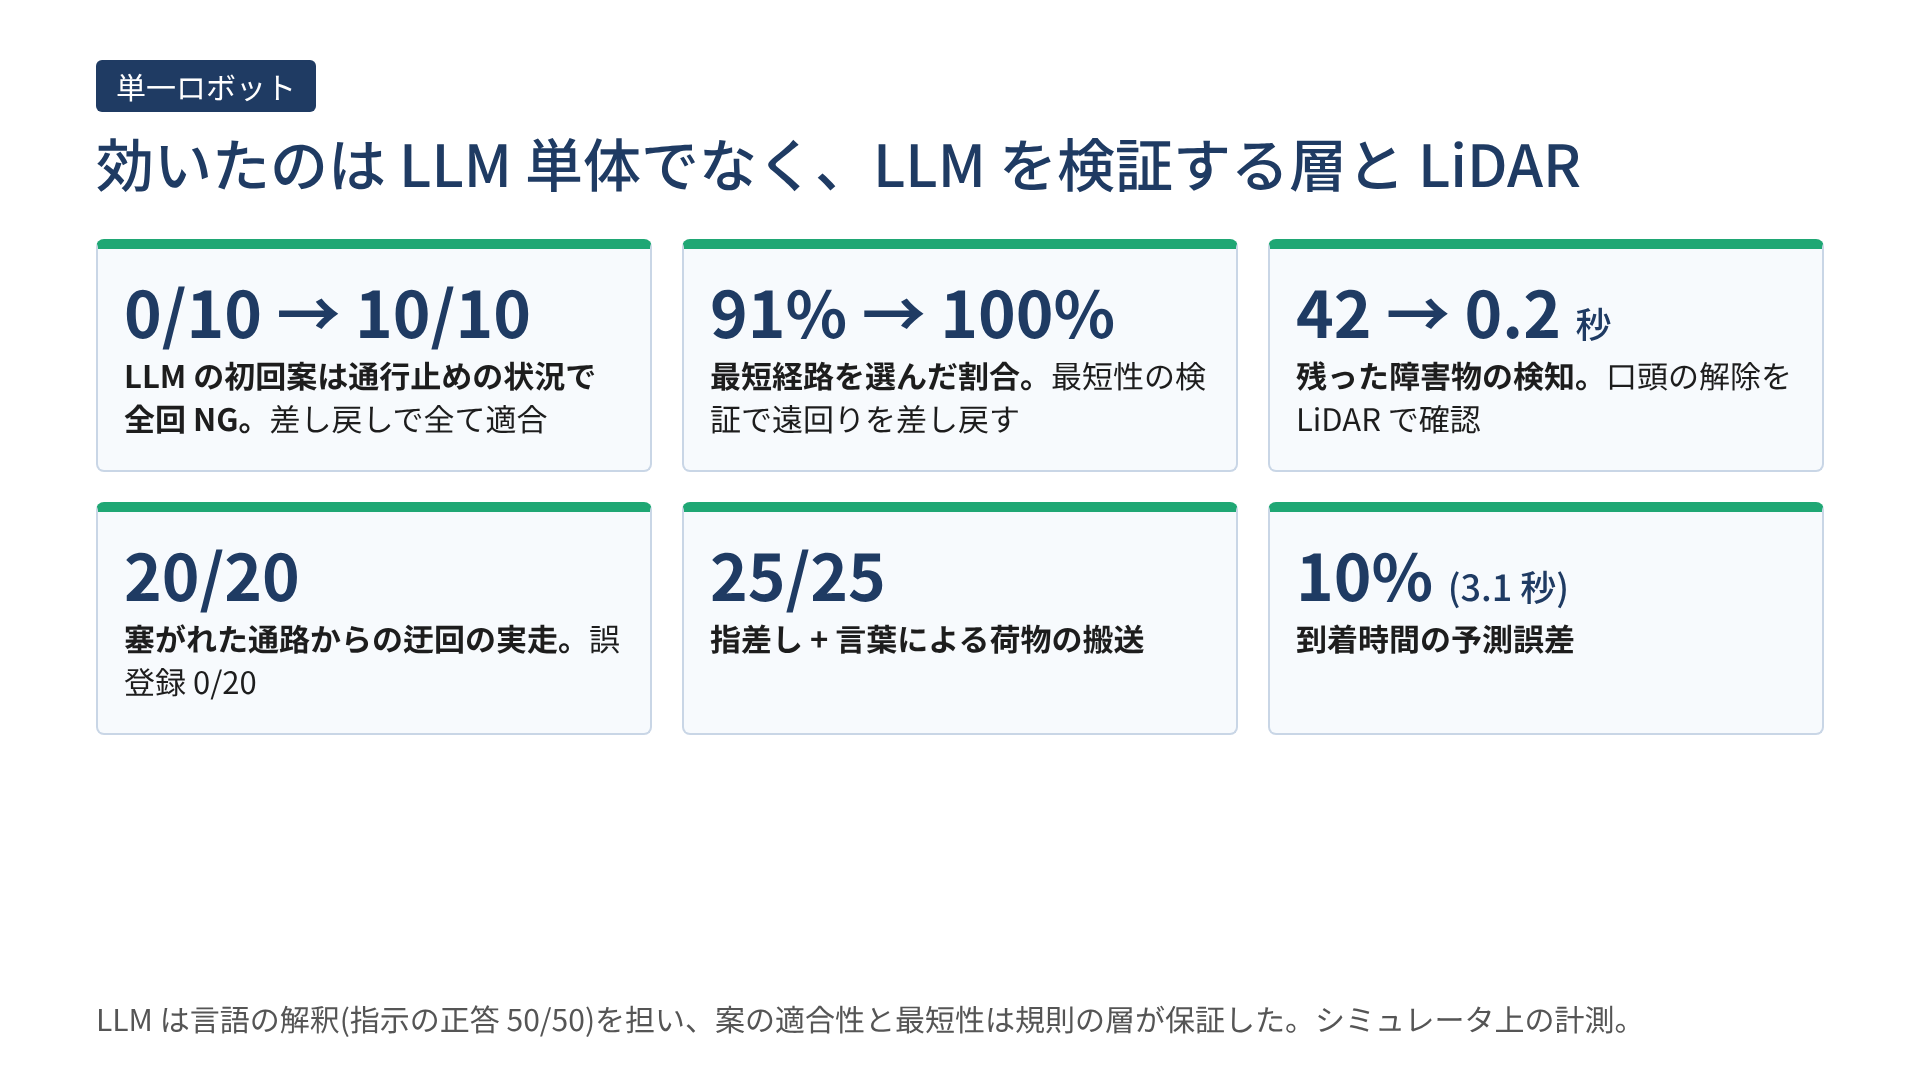
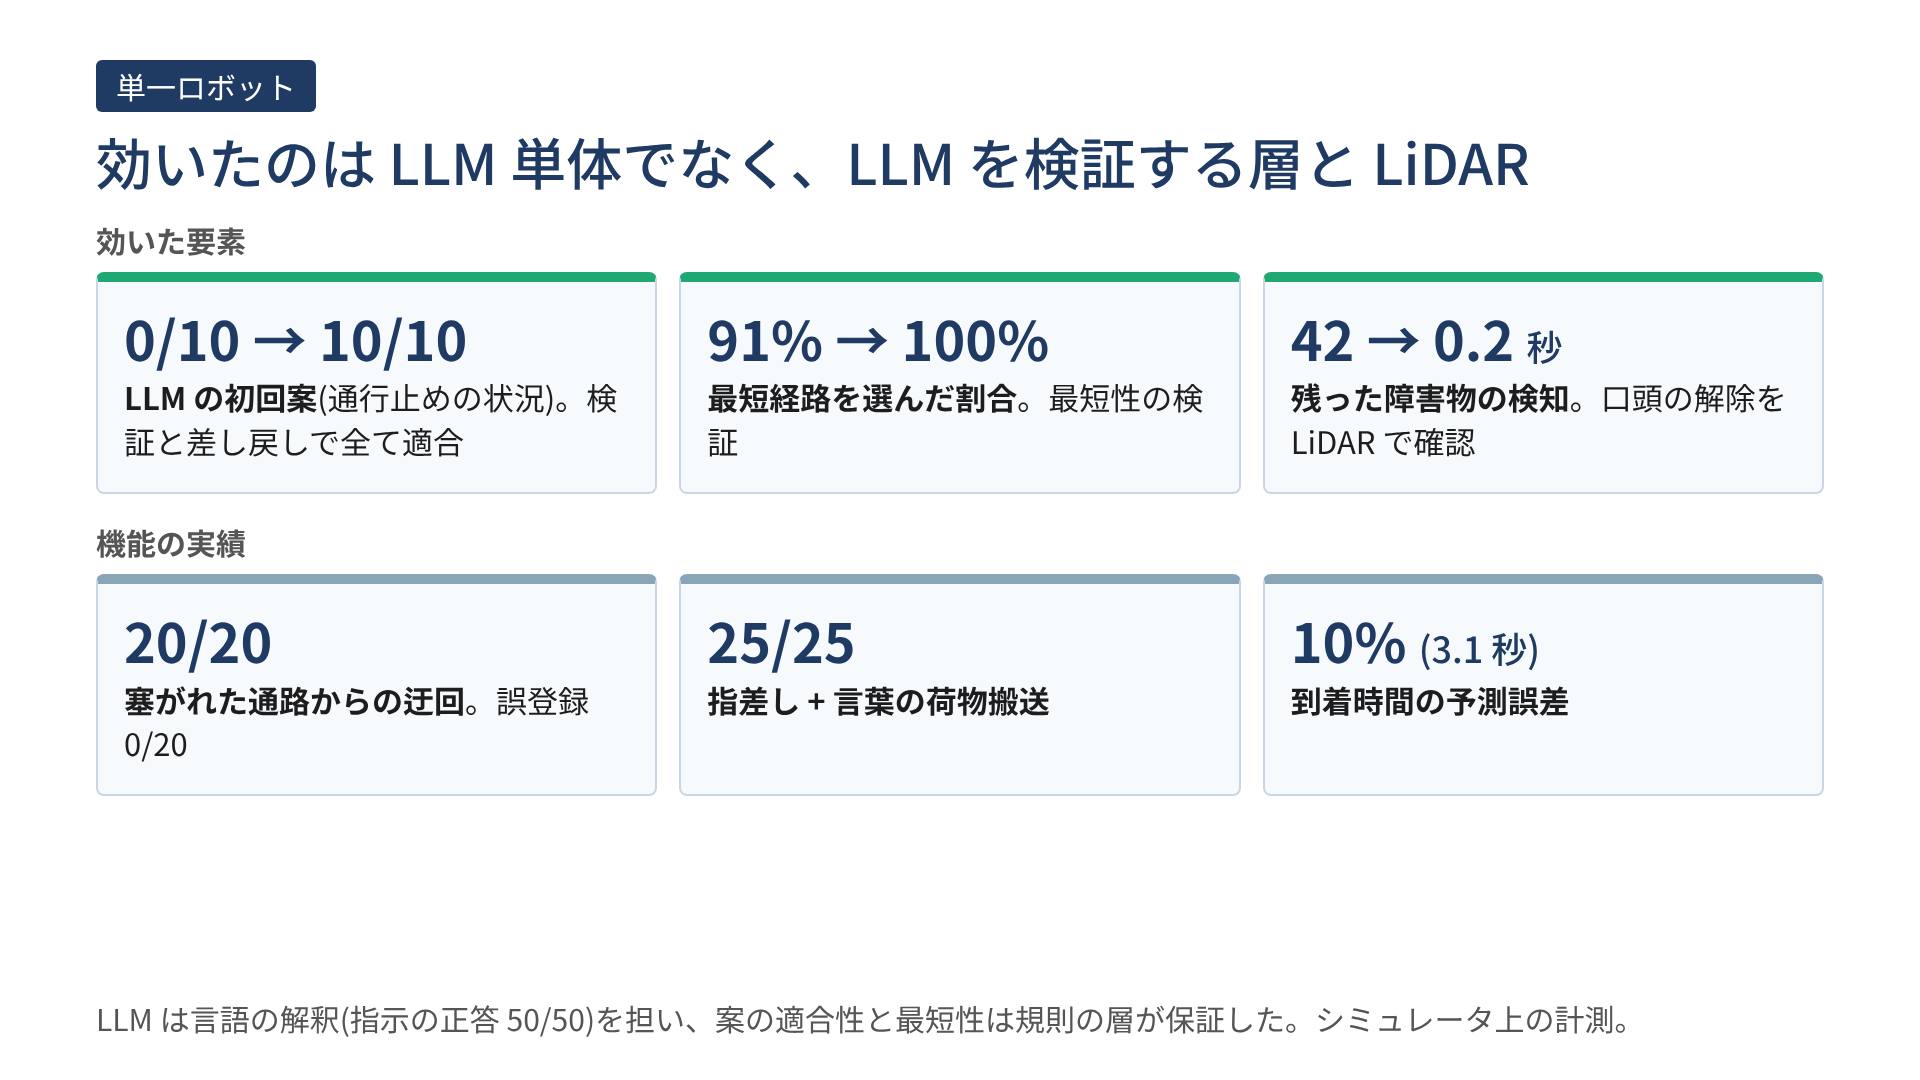
動画: 説明資料(draft12)に合わせて構成と画像を見直し(問い・進め方・協調方式の図・まとめ)
Claude-Session: https://claude.ai/code/session_01XXRvrW4CqHyFHBMq6pLjo3

Changed region(s): [[0.0312, 0.2139, 0.9688, 0.7028], [0.0625, 0.1222, 0.8438, 0.1833]]

diff --git a/docs/動画収録手順.md b/docs/動画収録手順.md
@@ -32,14 +32,14 @@
 
 ## 2. 場面ごとの操作
 
-### 場面 2(0:08–0:20)通常搬送と到着予測
+### 場面 2(0:14–0:24)通常搬送と到着予測
 | 場所 | 操作 |
 |---|---|
 | 【Mac-指示】 | `python llm_commander.py` |
 | 【Mac-指示】 | `> 出荷口へ行って` |
 | 画面 | 「到着予測: 約 N 秒」→ 到着(status: done)→「到着時間: 予測 … / 実測 … (誤差 …)」。ここを 2 倍速にして、画像 05 を重ねる |
 
-### 場面 3(0:20–0:42)荷物搬送(指差し + 言葉)
+### 場面 3(0:24–0:44)荷物搬送(指差し + 言葉)
 | 場所 | 操作 |
 |---|---|
 | 【Mac-指差し】 | `cd ~/Desktop/pai_final/host && source .venv/bin/activate && python pointing_cam.py`(黒い画面に手の骨格だけが出る。小窓で映す) |
@@ -48,7 +48,7 @@
 | 手 | 中央の荷物の方向を、人差し指で 1 秒指す →「SELECTED: …」→「指示を続けます」と出て走り出す |
 | 画面 | 荷物の前で積載(箱が消える)→ 出荷口で荷降ろし(箱が出荷口の前に出る) |
 
-### 場面 4(0:42–1:12)迂回(荷物を積んだまま)
+### 場面 4(0:44–1:12)迂回(荷物を積んだまま)
 | 場所 | 操作 |
 |---|---|
 | 【Mac-指示】 | `python llm_commander.py --cargo`(リセット後) |
@@ -56,7 +56,7 @@
 | 【Mac-操作】 | 「loaded 南の荷物」が出たら、ロボットが x=3.0 に着く前に `./ros_exec.sh ros2 run ai_nav obstacle place south_aisle` |
 | 画面 | 停止 → blocked(南通路)→ LLM の案・検証・差し戻し → 中央通路経由 → 出荷口で unloaded。2 倍速、画像 02 を前に 3〜4 秒、画像 05 を重ねる |
 
-### 場面 5(1:12–1:28)口頭解除と LiDAR 確認
+### 場面 5(1:12–1:26)口頭解除と LiDAR 確認
 | 場所 | 操作 |
 |---|---|
 | 【Mac-操作】 | `./ros_exec.sh ros2 run ai_nav obstacle place south_aisle`(パレットを置く。コマンダーは先に起動しておく) |
@@ -65,7 +65,7 @@
 | 【Mac-指示】 | `> 南通路は片付いた。出荷口へ行って` |
 | 画面 | パレットが残っているので、走行前に blocked(約 0.2 秒)→ 中央通路経由で到着。続けて画像 03 |
 
-### 場面 6(1:28–1:34)非常停止(手元のみ映す)
+### 場面 6(1:26–1:32)非常停止(手元のみ映す)
 | 場所 | 操作 |
 |---|---|
 | 【Mac-指差し】 | `Ctrl+C`(カメラを使う指差しを止める) |
@@ -73,7 +73,7 @@
 | 【Mac-指示】 | `> 出荷口へ行って`(走り出したら、握りこぶしを見せる) |
 | 画面 | EMERGENCY STOP が出てロボットが止まる。映すのは手元とターミナルだけ |
 
-### 場面 7(1:48–2:13)2 台の正面すれ違い(複数台の検証)
+### 場面 7(1:47–2:10)2 台の正面すれ違い(複数台の検証)
 単一の場面とは別のコンテナ(multi 用)を使う。**単一用のコンテナは止めてから**行う。録画用の試行は `MULTI_SUFFIX=_video` で別ファイルに記録し、検証データ・集計には混ぜない。
 
 | 場所 | 操作 |
@@ -91,22 +91,23 @@
 
 | 時間 | 内容 | 素材 |
 |---|---|---|
-| 0:00–0:08 | 課題と狙い | 画像 01 |
-| 0:08–0:20 | 通常搬送と到着予測 | 場面 2(2 倍速、画像 05) |
-| 0:20–0:42 | 荷物搬送(指差し + 言葉) | 場面 3 |
-| 0:42–1:12 | 迂回 | 画像 02(3 秒)→ 場面 4(2 倍速、画像 05) |
-| 1:12–1:28 | 口頭解除と LiDAR 確認 | 場面 5 → 画像 03 |
-| 1:28–1:34 | 非常停止 | 場面 6 |
-| 1:34–1:42 | 単一ロボットの要点 | 画像 04 |
-| 1:42–1:48 | 複数台の検証の設定 | 画像 06 |
-| 1:48–2:13 | 2 台の正面すれ違い | 場面 7(C0 4 倍速 + 画像 05b → C3 2 倍速 + 画像 05) |
-| 2:13–2:21 | 複数台の結果 | 画像 07 |
-| 2:21–2:29 | 通信の中身と、届かない場合 | 画像 08 |
-| 2:29–2:38 | 単一で効いた規則が裏目に出た点 | 画像 09 |
-| 2:38–2:52 | まとめ | 画像 10 |
+| 0:00–0:08 | 題名と 2 つの問い(単一 / 複数台) | 画像 01 |
+| 0:08–0:14 | 進め方(仮説 → 検証 → 修正の例 4 件) | 画像 01b |
+| 0:14–0:24 | 通常搬送と到着予測 | 場面 2(2 倍速、画像 05) |
+| 0:24–0:44 | 荷物搬送(指差し + 言葉) | 場面 3 |
+| 0:44–1:12 | 迂回 | 画像 02(3 秒)→ 場面 4(2 倍速、画像 05) |
+| 1:12–1:26 | 口頭解除と LiDAR 確認 | 場面 5 → 画像 03 |
+| 1:26–1:32 | 非常停止 | 場面 6 |
+| 1:32–1:40 | 問い 1 の答え:効いた要素と機能の実績 | 画像 04 |
+| 1:40–1:47 | 複数台の構成と協調の方式(C1・C3・C4) | 画像 06 |
+| 1:47–2:10 | 2 台の正面すれ違い | 場面 7(C0 4 倍速 + 画像 05b → C3 2 倍速 + 画像 05) |
+| 2:10–2:18 | 複数台の結果 | 画像 07 |
+| 2:18–2:26 | 通信の中身と、届かない場合・2 層 | 画像 08 |
+| 2:26–2:35 | 単一で効いた規則が裏目に出た点 | 画像 09 |
+| 2:35–2:52 | まとめ(2 つの問いへの答え、3 台以上への方針) | 画像 10 |
 
 1. 倍速の区間には、画像 05(2 倍速)・05b(4 倍速)を重ねる。
-2. 書き出し: 1080p の MP4、長さ 3:00 以内(目安 2:52)。尺が超える場合は、場面 3 と画像 08 を短くする。
+2. 書き出し: 1080p の MP4、長さ 3:00 以内(目安 2:52)。尺が超える場合は、場面 3 と画像 01b・08 を短くする。
 3. 確認: 顔・氏名・メール・ユーザー名・個人のフォルダ名が映っていない。倍速の表示がある。
 4. 画像は `docs/video_assets/`(1920×1080)。報告書と同じ図・数字から作った(生成スクリプトは報告書の作成環境にあり、リポジトリには含めない)。
 
